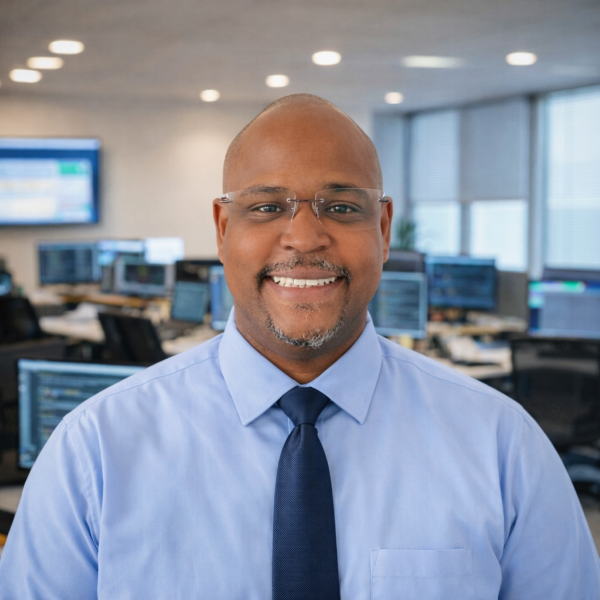
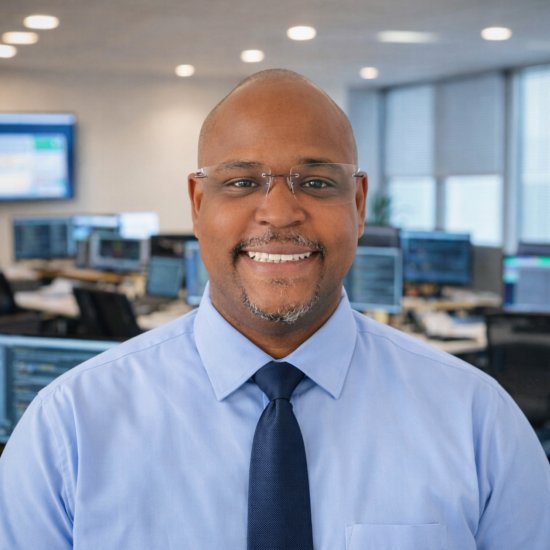
fotos

diff --git a/frontend/src/app/views/segmento/segmento.component.ts b/frontend/src/app/views/segmento/segmento.component.ts
@@ -51,7 +51,7 @@ export class SegmentoComponent implements OnInit {
       icon: "fas fa-warehouse",
       apresentacao: {
         titulo: "Sistema de gestão para atacarejo: eficiência do atacado com a agilidade do varejo",
-        p1: "A SIAH oferece um ecossistema completo para o atacarejo — do ERP (A7 ERP) ao e-commerce integrado e força de vendas em campo — tudo pensado para quem precisa atender atacado e varejo ao mesmo tempo, com tabelas de preço distintas, alto volume de estoque e conformidade fiscal nas operações com CNPJ.",
+        p1: "A SIAH oferece um ecossistema completo para o atacarejo — do ERP ao e-commerce integrado e força de vendas em campo — tudo pensado para quem precisa atender atacado e varejo ao mesmo tempo, com tabelas de preço distintas, alto volume de estoque e conformidade fiscal nas operações com CNPJ.",
         p2: "Na prática, o A7 ERP centraliza estoque, fiscal e financeiro na retaguarda; o E-commerce sincroniza catálogo e preços automaticamente para vendas online; e o app Força de Vendas leva o pedido externo direto ao sistema, sem retrabalho. Tudo conectado, tudo em tempo real.",
         p3: "O resultado é uma operação mais ágil, com menos erros, mais canais de venda ativos e visibilidade total para tomar decisões estratégicas com segurança.",
       },
@@ -76,7 +76,7 @@ export class SegmentoComponent implements OnInit {
       icon: "fas fa-store",
       apresentacao: {
         titulo: "Sistema de gestão para o varejo: controle total do caixa ao financeiro",
-        p1: "A SIAH oferece para o varejo em geral um ecossistema completo de soluções — o ERP A7 ERP, o PDV Touch na frente de caixa, o Pré-Venda para atendimento interno e o A7 Web para acompanhamento remoto — integrando todas as áreas do negócio em um único lugar.",
+        p1: "A SIAH oferece para o varejo em geral um ecossistema completo de soluções — o ERP A7, o PDV Touch na frente de caixa, o Pré-Venda para atendimento interno e o A7 Web para acompanhamento remoto — integrando todas as áreas do negócio em um único lugar.",
         p2: "O A7 centraliza estoque, fiscal e financeiro na retaguarda; o PDV Touch garante uma frente de caixa rápida e estável com emissão de NFC-e e múltiplas formas de pagamento; o Pré-Venda agiliza o atendimento interno; e o A7 Web entrega relatórios e indicadores em tempo real para o gestor de qualquer lugar.",
         p3: "O resultado é uma operação mais ágil, com caixa mais rápido, estoque sempre atualizado, conformidade fiscal garantida e visibilidade total para tomar decisões estratégicas e aumentar a rentabilidade do seu negócio.",
       },
@@ -101,7 +101,7 @@ export class SegmentoComponent implements OnInit {
       icon: "fas fa-hard-hat",
       apresentacao: {
         titulo: "Sistema de gestão para materiais de construção: controle total da sua operação",
-        p1: "A SIAH atende lojas de materiais de construção com um conjunto de soluções integradas — o ERP A7 ERP, o app de Expedição e Estoque e o Pré-Venda — cobrindo desde o orçamento ao cliente até a entrega da mercadoria com comprovação digital.",
+        p1: "A SIAH atende lojas de materiais de construção com um conjunto de soluções integradas — o A7 ERP, o app de Expedição e Estoque e o Pré-Venda — cobrindo desde o orçamento ao cliente até a entrega da mercadoria com comprovação digital.",
         p2: "O A7 ERP centraliza vendas, estoque de múltiplos depósitos, fiscal e financeiro; o app Pré-Venda digitaliza orçamentos e os converte em pedido direto no sistema; e o app Expedição controla a separação, agenda entregas e registra comprovantes com foto e assinatura.",
         p3: "O resultado é uma operação mais organizada, com menos erros no processo de venda e entrega, estoque sempre atualizado e gestão financeira integrada para impulsionar os resultados da sua loja.",
       },

diff --git a/frontend/src/app/views/equipe/equipe.component.ts b/frontend/src/app/views/equipe/equipe.component.ts
@@ -26,7 +26,7 @@ export class EquipeComponent implements AfterViewInit {
       ],
     },
     {
-      nome: "SIAHSoft",
+      nome: "SIAH Soft",
       cor: "#0077cc",
       departamentos: [
         {
@@ -42,11 +42,12 @@ export class EquipeComponent implements AfterViewInit {
         {
           nome: "Suporte",
           pessoas: [
+            { nome: "Neto Gonçalves", cargo: "Suporte de TI", foto: "/assets/images/equipe/Neto.png" },
+            { nome: "Lúcio Portela", cargo: "Suporte de TI", foto: "/assets/images/equipe/Lucio.png" },
             { nome: "Joab Martins", cargo: "Suporte de TI", foto: "/assets/images/equipe/Joab.png" },
             { nome: "José Souza", cargo: "Suporte de TI", foto: "/assets/images/equipe/Jose.png" },
-            { nome: "Lúcio Portela", cargo: "Suporte de TI", foto: "/assets/images/equipe/Lucio.png" },
             { nome: "Maria Eduarda", cargo: "Suporte de TI", foto: "/assets/images/equipe/Maria_Ed.png" },
-            { nome: "Neto Gonçalves", cargo: "Suporte de TI", foto: "/assets/images/equipe/Neto.png" },
+            { nome: "Ageu Oliveira", cargo: "Suporte de TI", foto: "/assets/images/equipe/Ageu.png" },
           ],
         },
         {
@@ -63,7 +64,7 @@ export class EquipeComponent implements AfterViewInit {
       ],
     },
     {
-      nome: "SIAHCert",
+      nome: "SIAH Cert",
       cor: "#7c3aed",
       departamentos: [
         {
